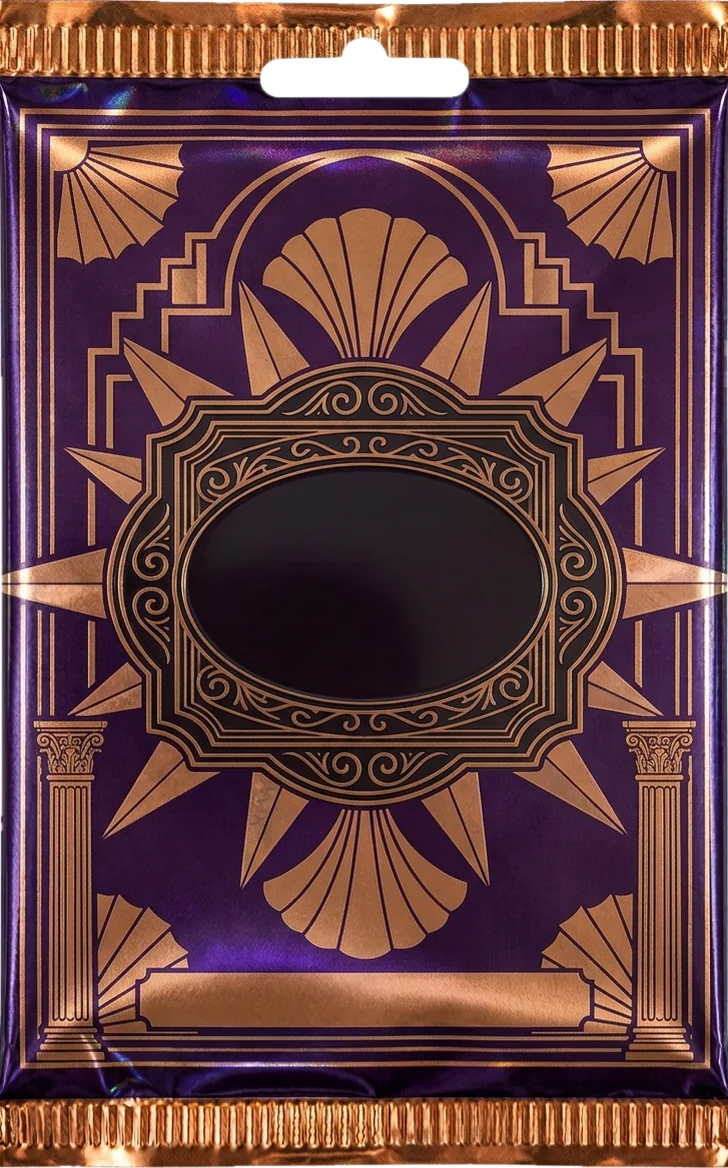
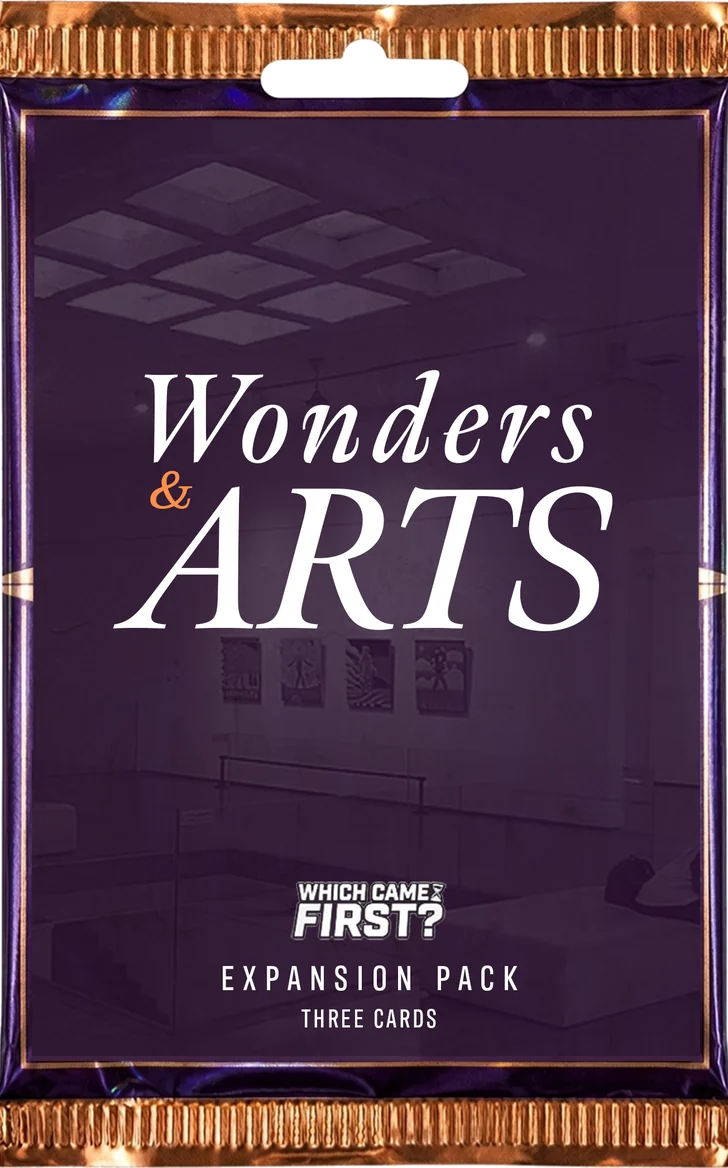
Which Came First? packs: Eric's own Wonders & Art wrapper
Replaces the Gallery Guild wrapper with Eric's purple and copper foil
"Wonders & ARTS / Expansion Pack / Three Cards" design over a gallery
photo. Its words and logo are part of the art, so the game draws
nothing on it. No pack uses drawn company names any more.

Claude-Session: https://claude.ai/code/session_011EyvFuYywofgN3DNw7vfmE

diff --git a/packs/index.html b/packs/index.html
@@ -319,7 +319,7 @@ const PK={
   inv:{hole:1,strip:.36},  // Eric's own design, foil: words and logo are in the art; shorter tear strip so the rip stays above the logo
   exp:{hole:1,cello:1},  // Eric's own design: words, logo and sticker are in the art
   big:{hole:1,strip:.35},  // Eric's own design, foil: words and logo are in the art; shorter tear strip keeps the rip above EXPANSION PACK
-  won:{logo:[364,586,320],brand:{t:['GALLERY GUILD'],x:364,y:998,r:0,s:44,c:'#2a0d3d'},stk:[598,898,82,.14,1,'#2a0d3d'],hole:1},
+  won:{hole:1},  // Eric's own design, foil: words and logo are in the art
   chain:{logo:[364,593,345],stk:[600,1000,92,-.18,1,'#1d1626']}};
 const inTheme=(c,th)=>th=='all'||c.th==th;
 const BASE=['art/pack-inv.webp','art/pack-exp.webp','art/pack-big.webp','art/pack-won.webp','art/frame-inventions.webp','art/frame-wonders.webp','art/frame-moments.webp','art/frame-explorers.webp','art/back.jpg','art/logo.webp','art/pack-std.webp','art/pack-chain.jpg'];
